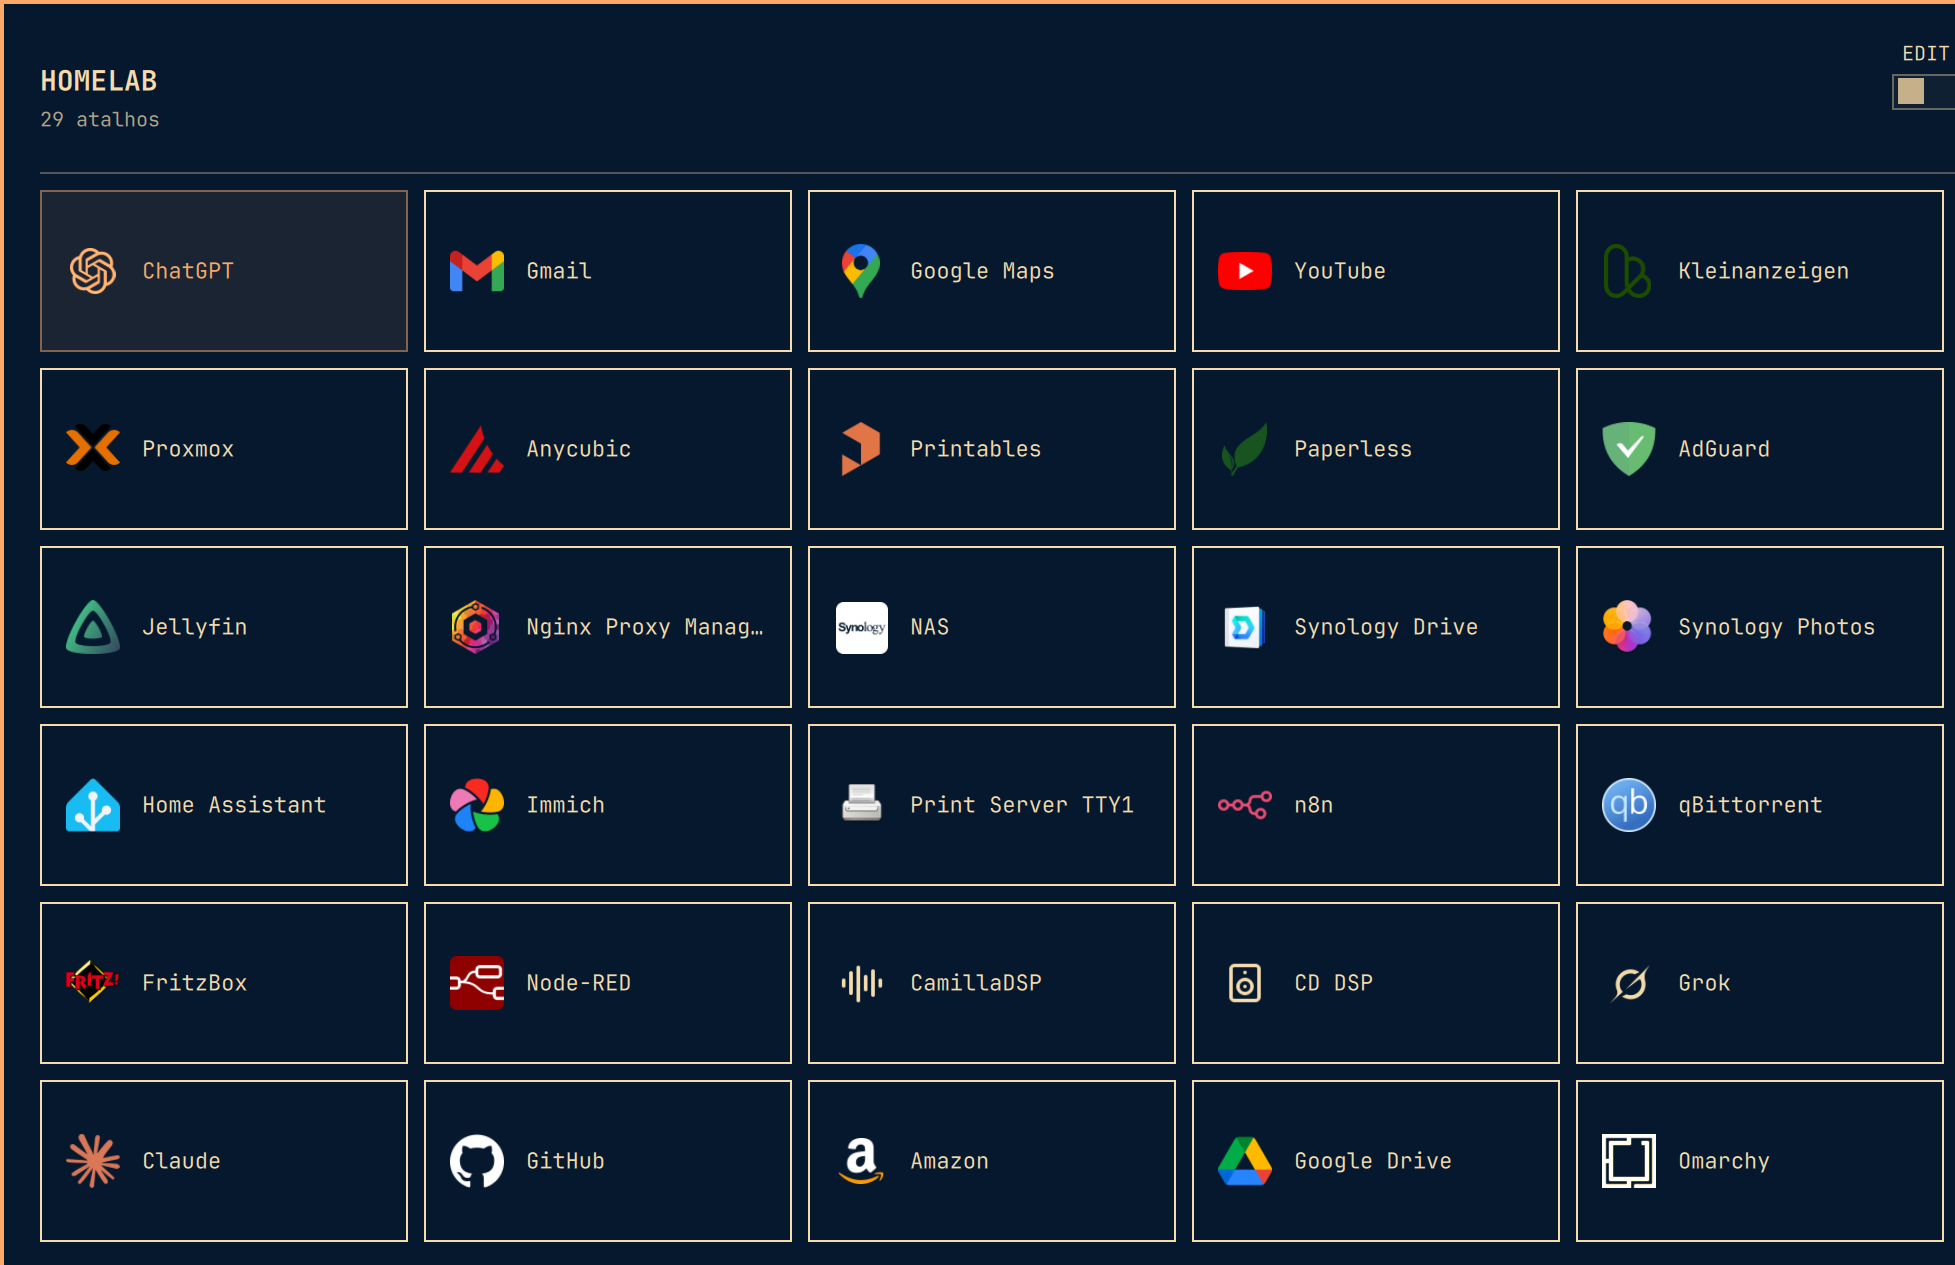
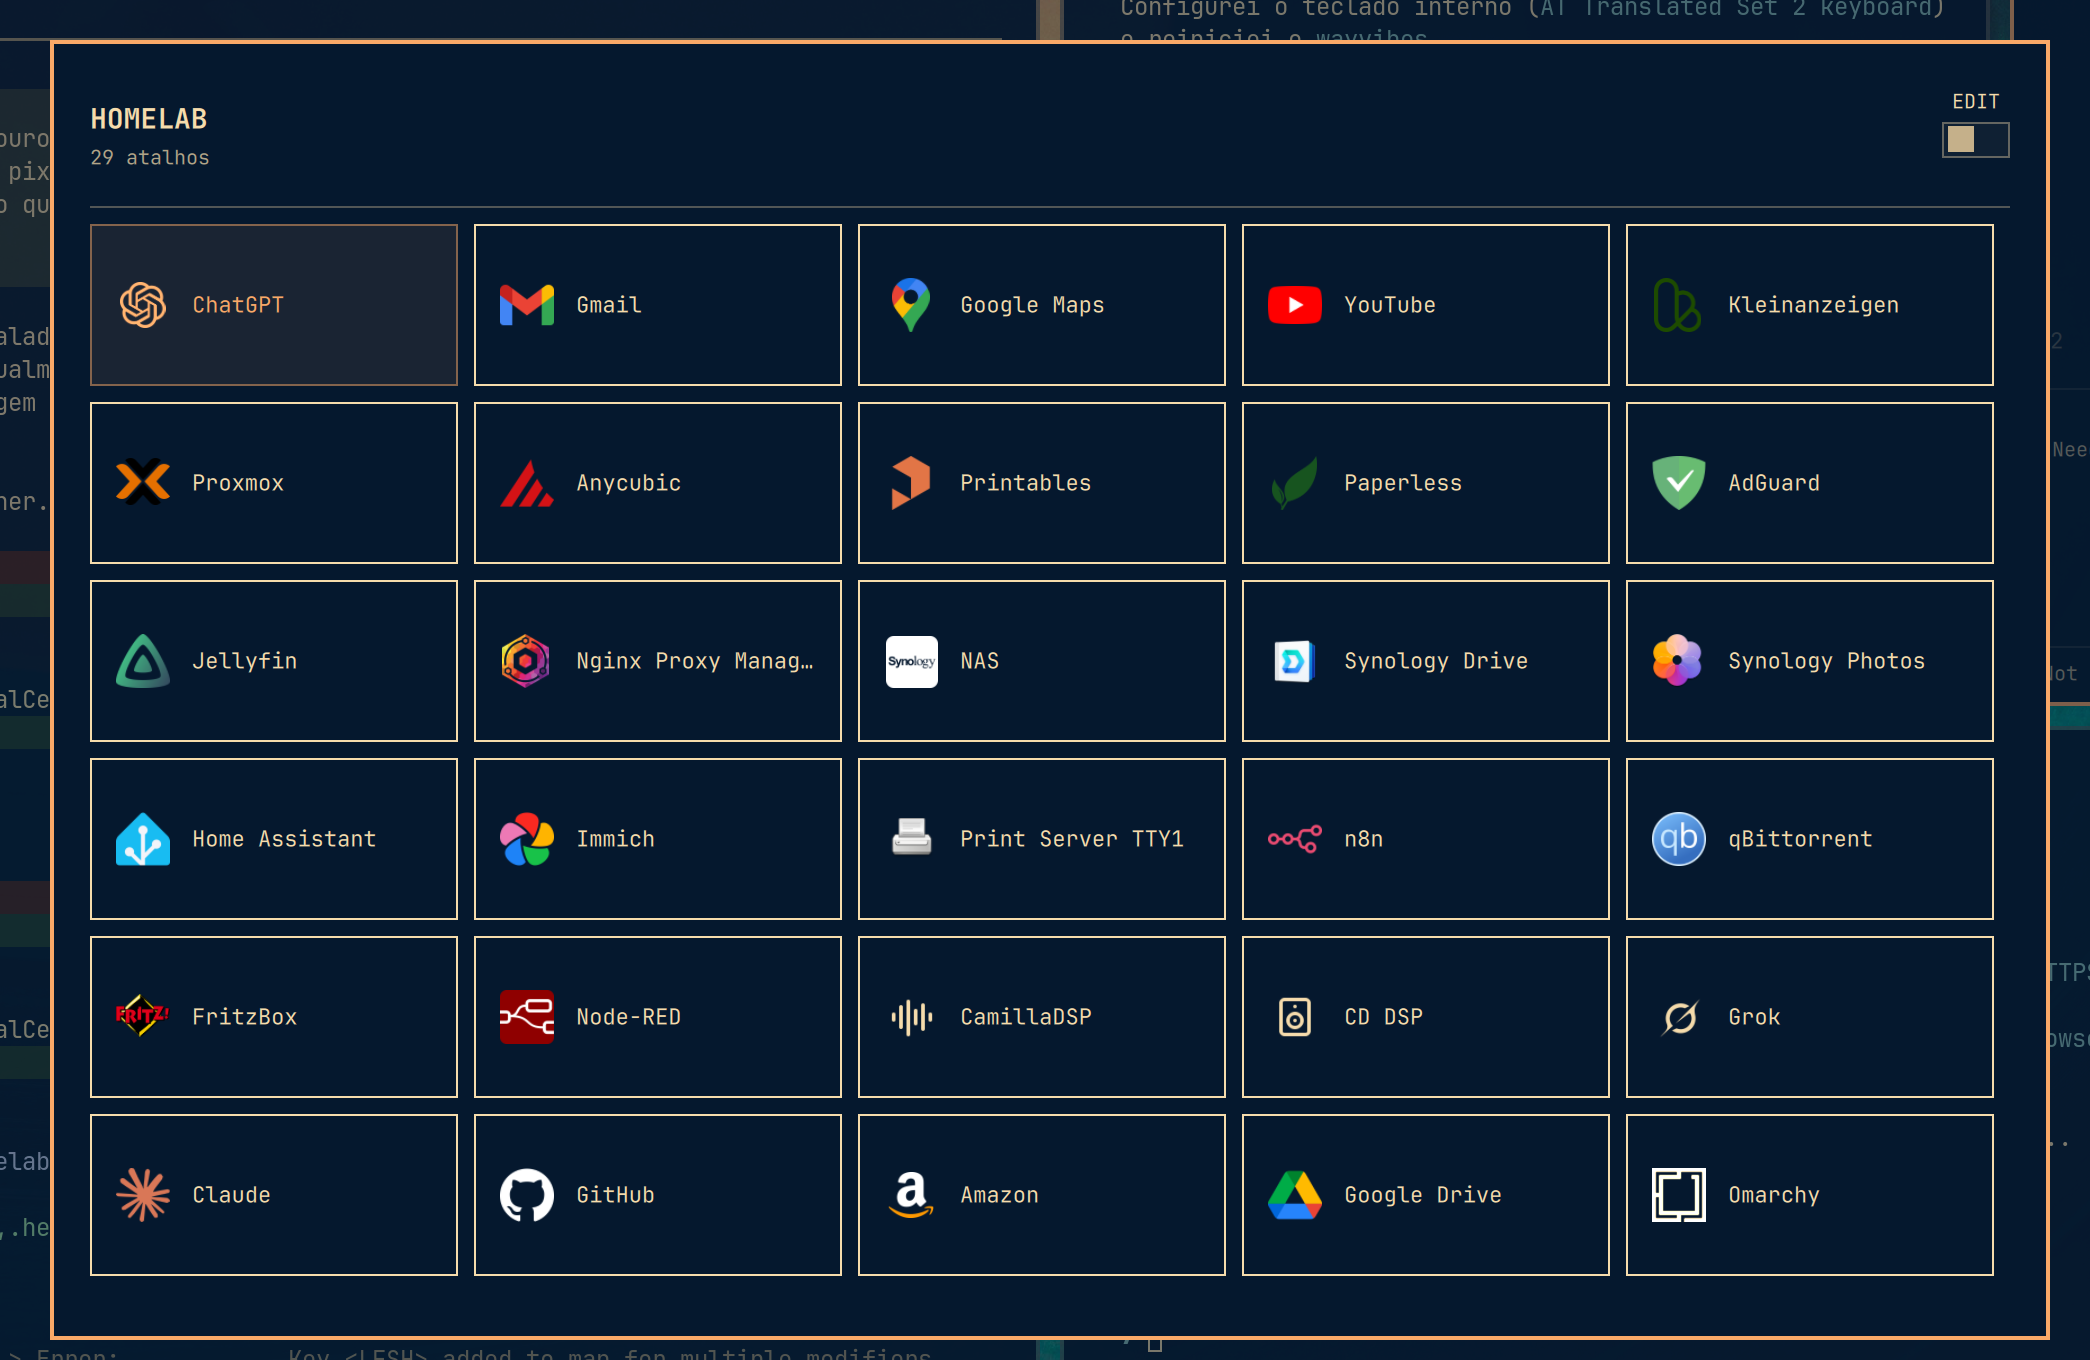
Refine header alignment and marketplace preview

Changed region(s): [[0.0, 0.0, 1.0, 1.0]]

diff --git a/Launcher.qml b/Launcher.qml
@@ -399,7 +399,7 @@ Item {
 
         Item {
           width: parent.width
-          height: Style.space(58)
+          height: Style.space(55)
 
           Column {
             anchors.left: parent.left
@@ -436,6 +436,7 @@ Item {
             height: parent.height
             anchors.right: parent.right
             anchors.verticalCenter: parent.verticalCenter
+            anchors.verticalCenterOffset: 4
             spacing: Style.spacing.xs
 
             Text {
